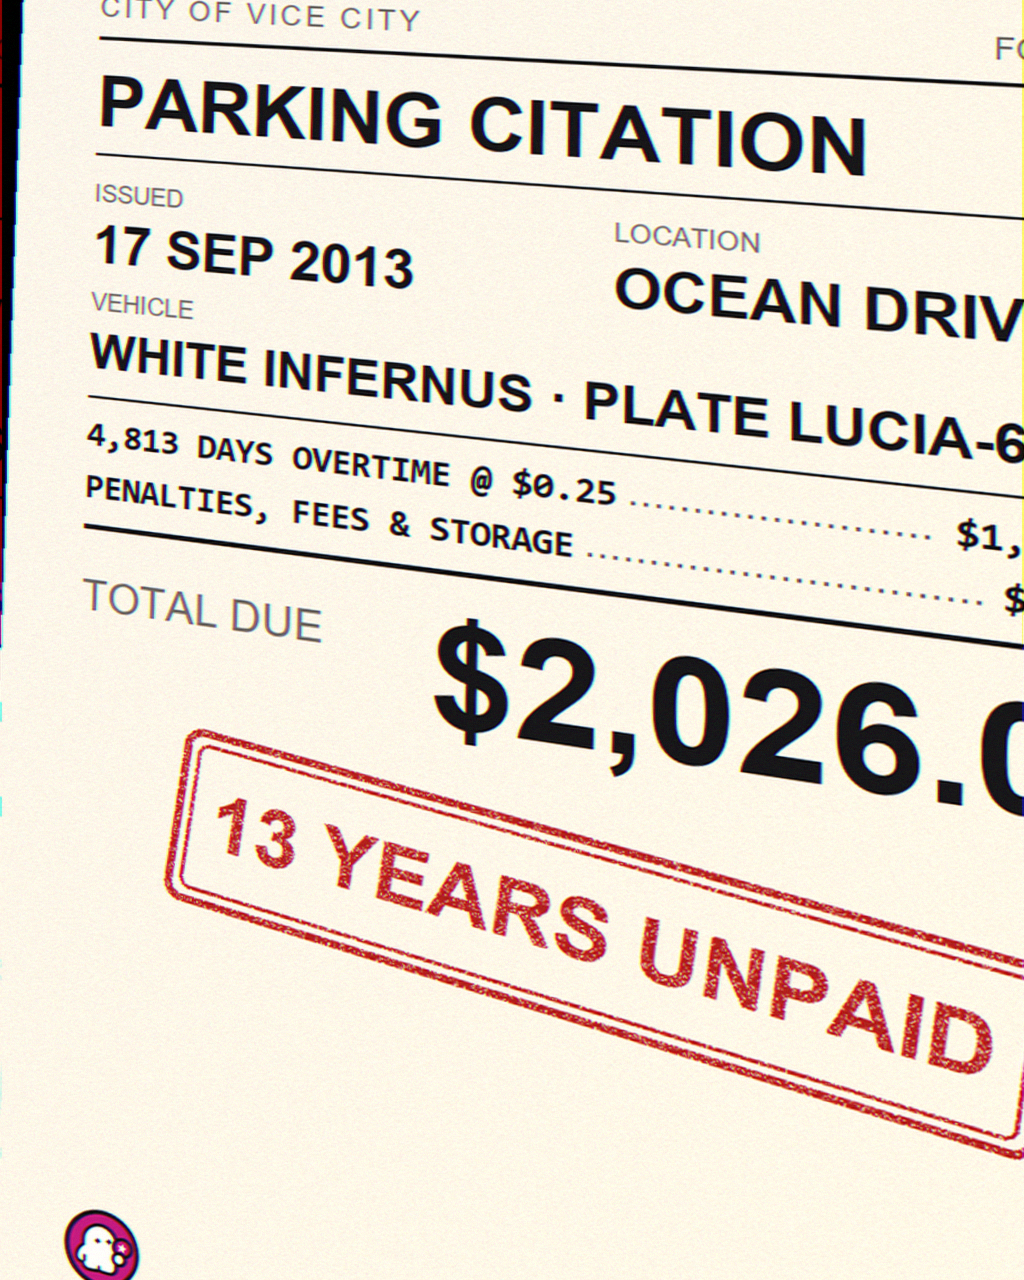
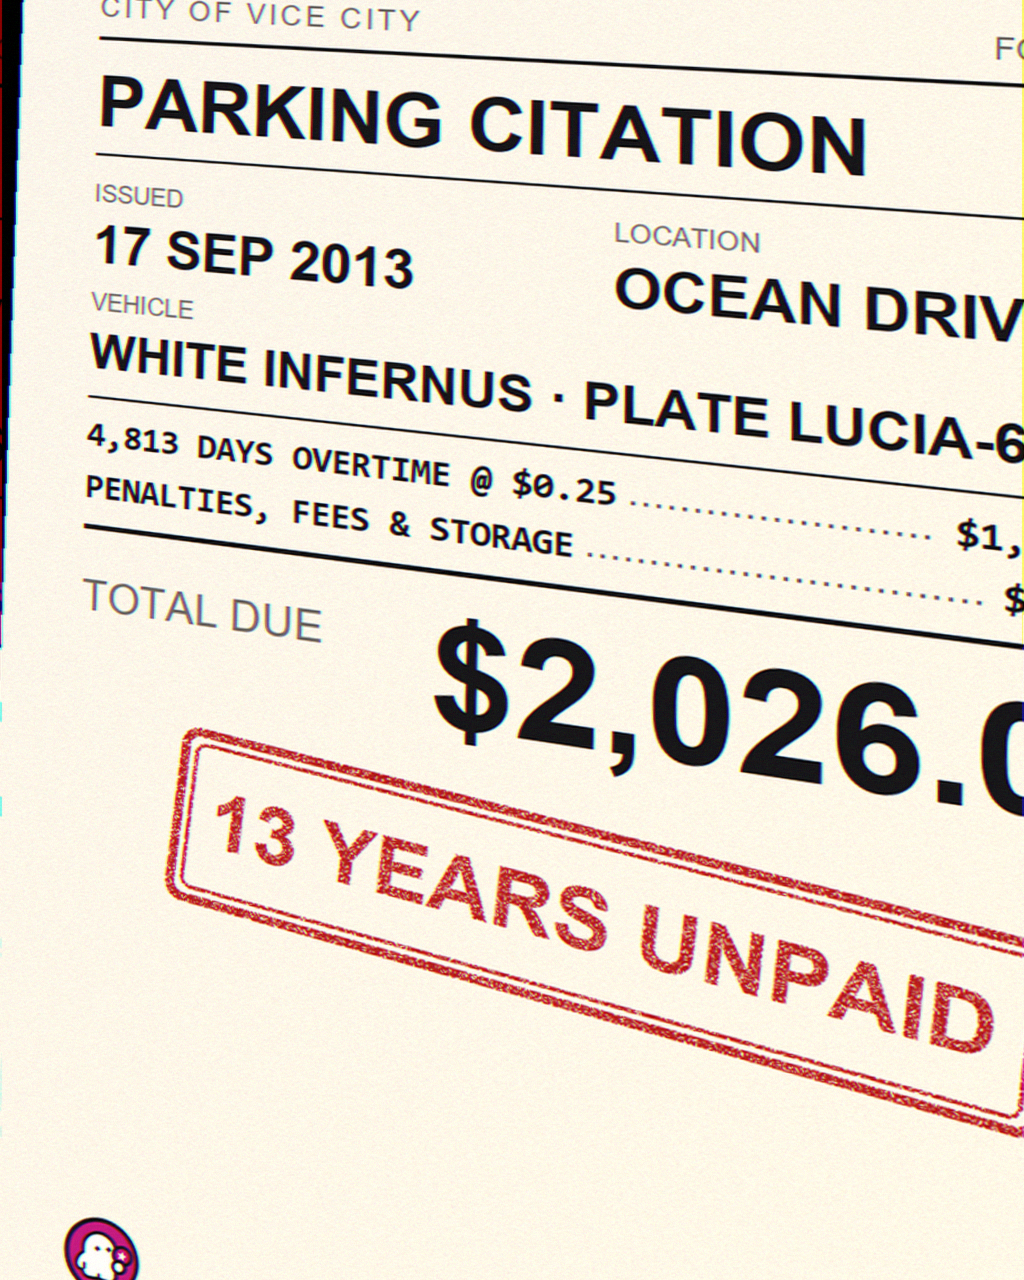
Polish the stamp weight, the punchline gap and the kicker colour

Changed region(s): [[0.1562, 0.5625, 1.0, 0.9062], [0.0625, 0.9375, 0.1562, 1.0]]

diff --git a/citation_paper.py b/citation_paper.py
@@ -191,7 +191,7 @@ def make_paper() -> Image.Image:
     # Red distressed stamp, centered across the sheet.
     stamp = Image.new("RGBA", (620, 146), (0, 0, 0, 0))
     stamp_draw = ImageDraw.Draw(stamp)
-    stamp_draw.rounded_rectangle((4, 4, 616, 142), radius=14, outline=RED + (255,), width=6)
+    stamp_draw.rounded_rectangle((4, 4, 616, 142), radius=14, outline=RED + (255,), width=7)
     stamp_draw.rounded_rectangle((15, 15, 605, 131), radius=9, outline=RED + (255,), width=3)
     stamp_text = "13 YEARS UNPAID"
     stamp_face = fitting_font(stamp_draw, stamp_text, "arialbd.ttf", 70, 560)
@@ -201,16 +201,16 @@ def make_paper() -> Image.Image:
     stamp_draw.text((stamp_x, stamp_y), stamp_text, font=stamp_face, fill=RED + (255,))
     stamp_arr = np.asarray(stamp).copy()
     alpha = stamp_arr[:, :, 3]
-    distress = np.random.default_rng().random(alpha.shape) < 0.16
+    distress = np.random.default_rng().random(alpha.shape) < 0.22
     factors = np.random.default_rng().uniform(0.05, 0.5, alpha.shape)
     alpha[distress] = (alpha[distress].astype(np.float32) * factors[distress]).astype(np.uint8)
     stamp_arr[:, :, 3] = alpha
-    stamp = Image.fromarray(stamp_arr, "RGBA").rotate(-7, resample=Image.Resampling.BICUBIC, expand=True)
+    stamp = Image.fromarray(stamp_arr, "RGBA").rotate(-5.5, resample=Image.Resampling.BICUBIC, expand=True)
     stamp_x = (PAPER_W - stamp.width) // 2
     paper_rgba = paper.convert("RGBA")
     paper_rgba.alpha_composite(stamp, (stamp_x, cursor))
     record("rubber stamp", (stamp_x, cursor, stamp_x + stamp.width, cursor + stamp.height))
-    cursor += stamp.height + 18
+    cursor += stamp.height + 40
 
     punch = "THE CAR NEVER MOVED."
     punch_face = fitting_font(draw, punch, "arialbd.ttf", 72, inner)
@@ -219,7 +219,7 @@ def make_paper() -> Image.Image:
 
     kicker = "PARKED THE DAY GTA V CAME OUT."
     kicker_face = fitting_font(draw, kicker, "arialbd.ttf", 34, inner)
-    text("kicker", (x0, cursor), kicker, kicker_face, MAGENTA)
+    text("kicker", (x0, cursor), kicker, kicker_face, (198, 26, 132))
     cursor += 52
 
     rule("footer divider", cursor, 2)
